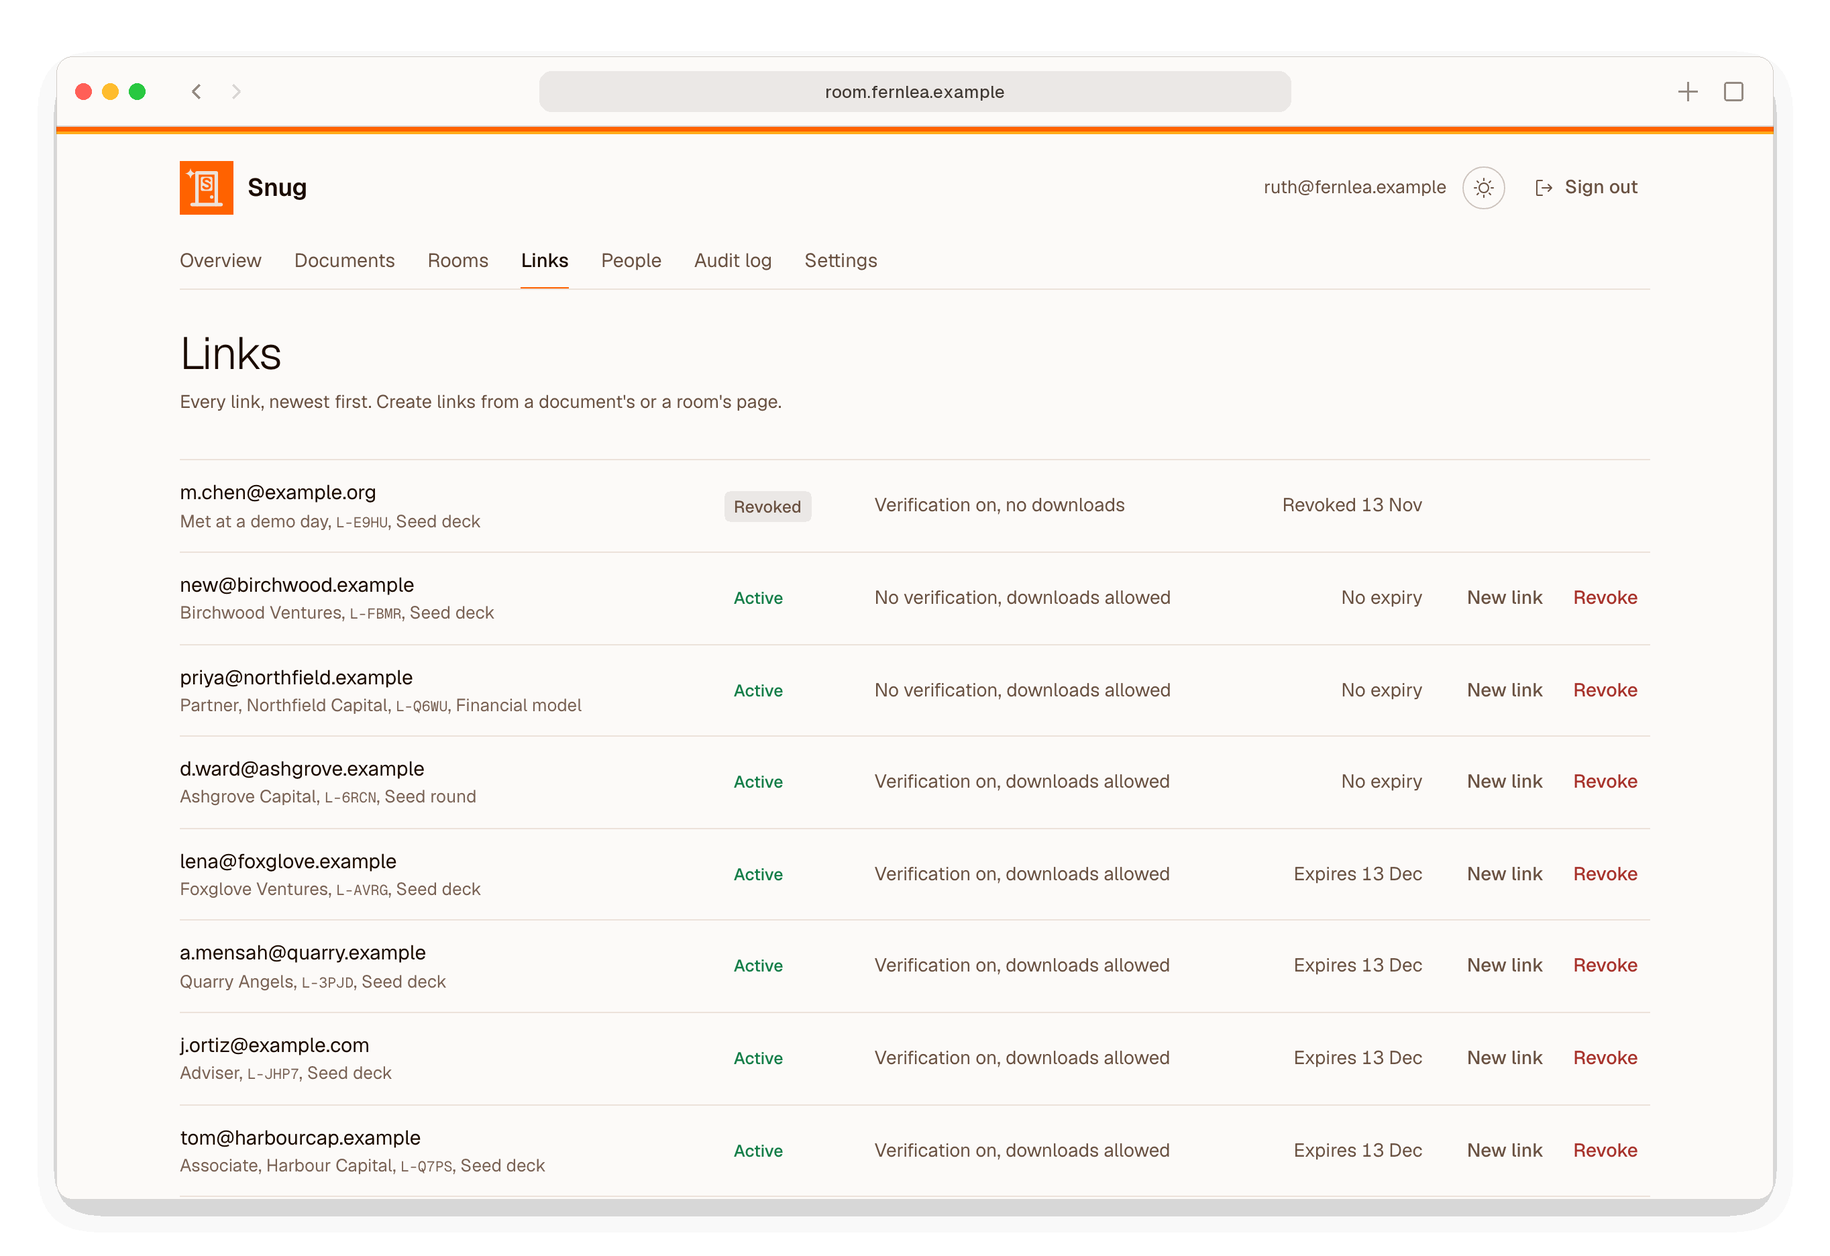
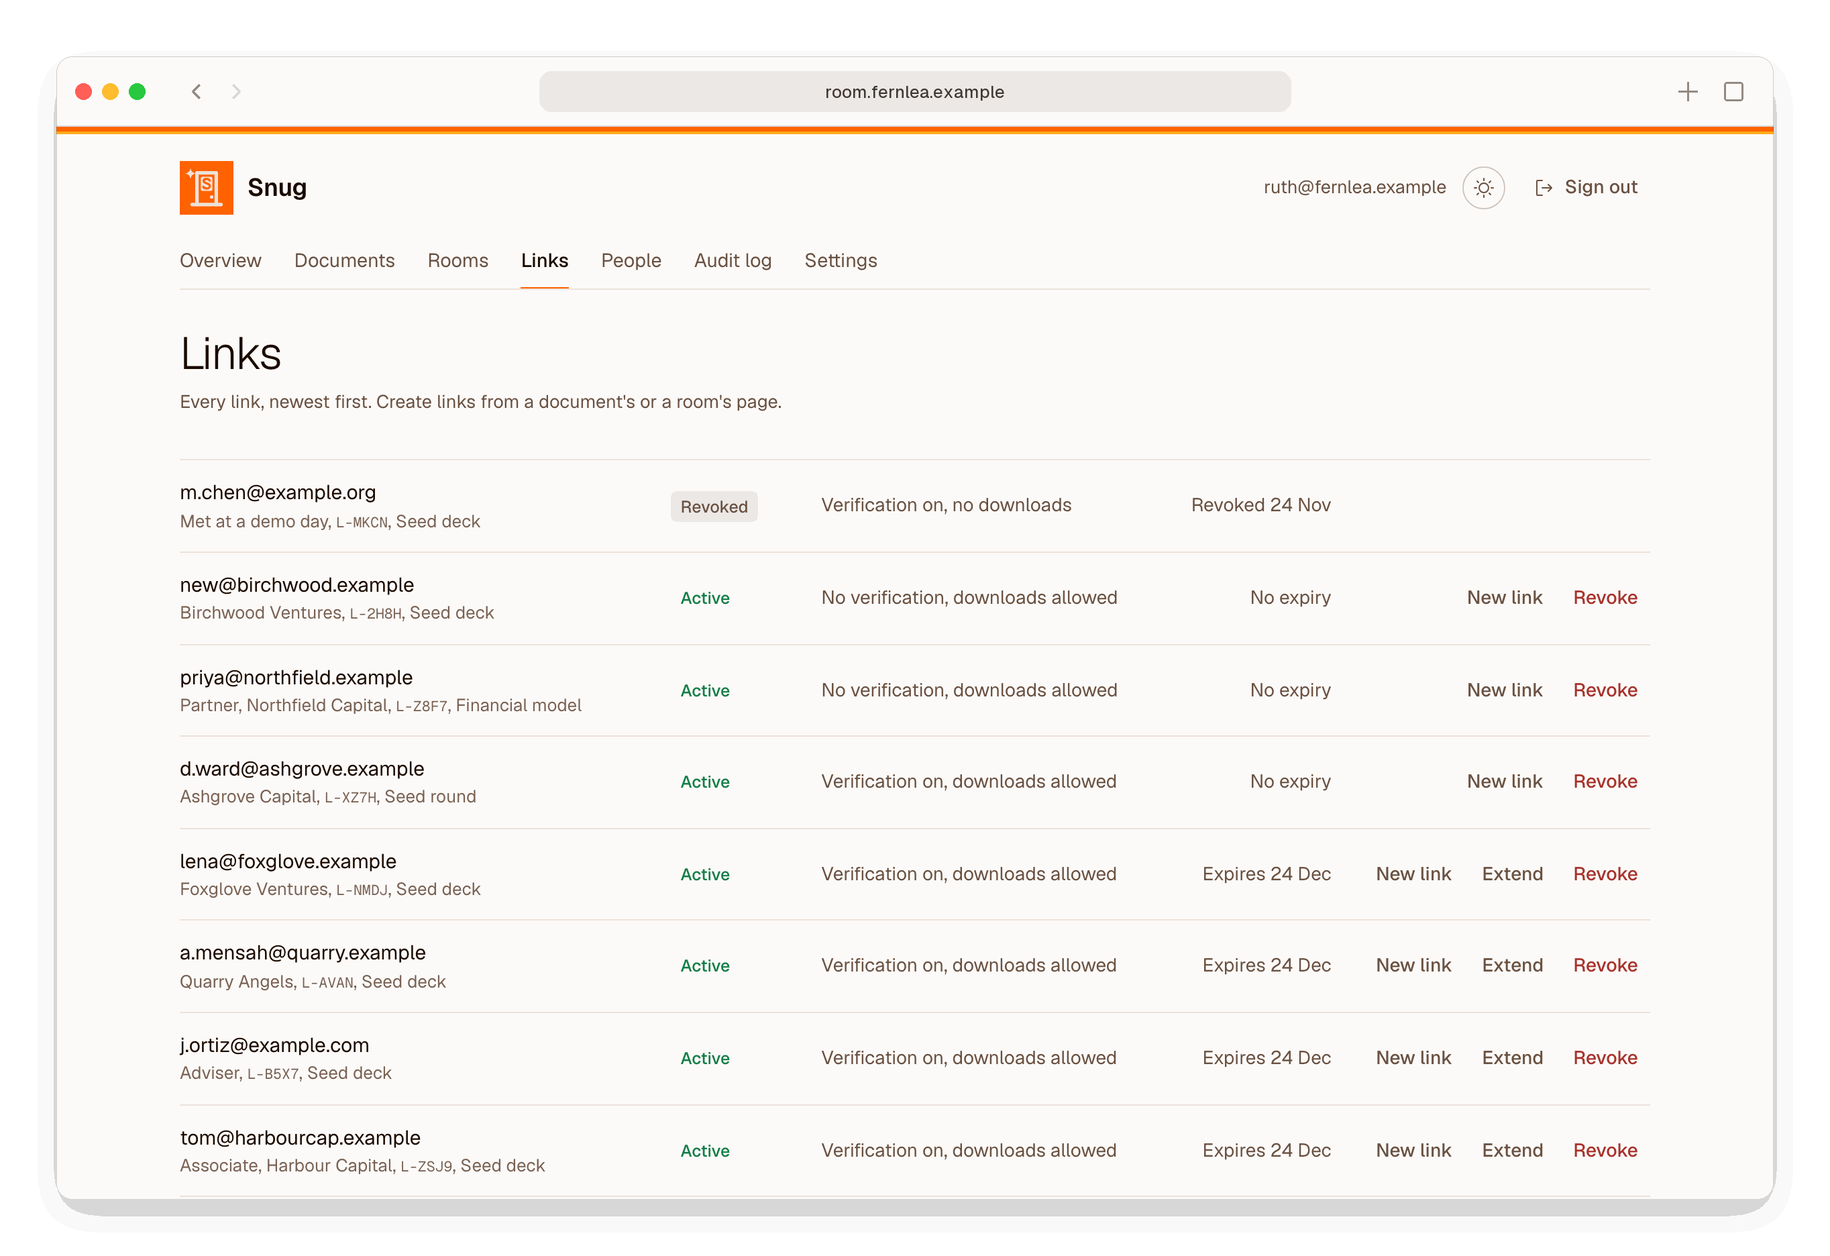
Add Extend beside Revoke on a link
A link with an expiry can now be given a later last day, or none, and
keeps its URL, so a founder no longer has to send a new link to give an
investor more time. It also brings an expired link back. A revoked link,
or one with no expiry, is not offered it. Each extension is audited as
link.extended, with the old and new last days.

diff --git a/snug/templates/links/_rows.html b/snug/templates/links/_rows.html
@@ -5,7 +5,7 @@
     {% if link.status == "active" %}<span class="status status-ok">Active</span>{% elif link.status == "expired" %}<span class="status status-warn">Expired</span>{% else %}<span class="status status-off">Revoked</span>{% endif %}
     <span class="muted">{% if link.require_verification %}Verification on{% else %}No verification{% endif %}, {% if link.allow_download %}downloads allowed{% else %}no downloads{% endif %}{% if link.uk_only or link.room.uk_only %}, UK only{% endif %}</span>
     <span class="r muted num">{% if link.status == "revoked" %}Revoked {{ link.revoked_at|date:"j M" }}{% elif link.expires_at %}{% if link.status == "expired" %}Expired{% else %}Expires{% endif %} {{ link.last_day|date:"j M" }}{% else %}No expiry{% endif %}</span>
-    <span class="r link-actions">{% if link.status != "revoked" %}<a class="btn btn-quiet" href="{% url 'links:reissue' link.ref %}">New link</a><a class="btn btn-quiet btn-danger" href="{% url 'links:revoke' link.ref %}">Revoke</a>{% endif %}</span>
+    <span class="r link-actions">{% if link.status != "revoked" %}<a class="btn btn-quiet" href="{% url 'links:reissue' link.ref %}">New link</a>{% if link.expires_at %}<a class="btn btn-quiet" href="{% url 'links:extend' link.ref %}">Extend</a>{% endif %}<a class="btn btn-quiet btn-danger" href="{% url 'links:revoke' link.ref %}">Revoke</a>{% endif %}</span>
   </div>
   {% empty %}
   <p class="empty-line">No links yet.</p>

diff --git a/snug/templates/links/extend.html b/snug/templates/links/extend.html
@@ -1,0 +1,12 @@
+{% extends "snug/admin_base.html" %}
+{% load snug %}
+{% block title %}Extend link{% endblock %}
+{% block content %}
+<div class="crumbs"><a href="{% url 'links:list' %}">Links</a> / <a href="{{ link.target_url }}">{{ link.target_title }}</a> / <span class="mono">{{ link.label }}</span></div>
+<div class="title-row"><div><h1 class="page-title">Extend the link for {{ link.email }}?</h1><div class="page-meta">{% if link.status == "expired" %}It expired on {{ last_day }}. A later date makes the same link work again.{% else %}It works until {{ last_day }}.{% endif %} Its address stays the same, so there is nothing new to send.</div></div></div>
+<form class="panel form" method="post" action="{% url 'links:extend' link.ref %}" novalidate>
+  {% csrf_token %}
+  <div class="field"><label for="expires">Works until</label><input id="expires" name="expires" type="date" min="{{ earliest }}" value="{{ value }}"{% if error %} aria-invalid="true" aria-describedby="expires-error"{% endif %} autofocus>{% if error %}<div class="error" id="expires-error" role="alert">{% icon "warning-circle" %}{{ error }}</div>{% else %}<div class="hint">The last day it works. Leave empty for no expiry.</div>{% endif %}</div>
+  <div class="form-foot left"><a class="btn" href="{{ link.target_url }}">Cancel</a><button class="btn btn-primary" type="submit">Extend link</button></div>
+</form>
+{% endblock %}

diff --git a/snug/static/snug/css/snug.css b/snug/static/snug/css/snug.css
@@ -637,5 +637,5 @@ input[type="file"]::file-selector-button {
     .link-rows { display: block; }
     .link-rows .item { grid-template-columns: 1fr auto; }
     .link-rows .item > .muted { display: none; }
-    .link-actions { grid-column: 1 / -1; justify-content: flex-start; }
+    .link-actions { grid-column: 1 / -1; justify-content: flex-start; flex-wrap: wrap; }
 }

diff --git a/tests/test_link_extend.py b/tests/test_link_extend.py
@@ -1,0 +1,138 @@
+"""Extending a link: a later expiry, or none, for the same URL (issue #151)."""
+
+from datetime import date, timedelta
+
+import pytest
+from django.test import Client
+from django.utils import timezone
+
+from snug.audit.models import AuditEvent
+from snug.documents.models import Document
+from snug.links.models import Link
+from tests.test_links import INVESTOR, admin, client, create, document, issued_url, token_of
+
+__all__ = ["admin", "client", "document"]  # fixtures, used by name
+
+pytestmark = pytest.mark.django_db
+
+
+def in_days(days: int) -> date:
+    return timezone.localdate() + timedelta(days=days)
+
+
+def link_until(client: Client, document: Document, day: date) -> tuple[Link, str]:
+    create(client, document, expires=day.isoformat())
+    return Link.objects.get(), token_of(issued_url(client))
+
+
+def extend(client: Client, link: Link, until: str) -> object:
+    return client.post(f"/admin/links/{link.ref}/extend", {"expires": until}, secure=True)
+
+
+def test_extending_asks_first(client: Client, document: Document) -> None:
+    day = in_days(5)
+    link, _ = link_until(client, document, day)
+    page = client.get(f"/admin/links/{link.ref}/extend", secure=True).content.decode()
+    assert f"Extend the link for {INVESTOR}?" in page
+    assert f"It works until {day.day} {day:%B %Y}." in page
+    assert Link.objects.get().last_day == day
+
+
+def test_extending_moves_the_expiry_and_keeps_the_url(client: Client, document: Document) -> None:
+    link, token = link_until(client, document, in_days(5))
+    later = in_days(19)
+    response = extend(client, link, later.isoformat())
+    assert response["Location"] == f"/admin/documents/{document.token}#links"  # type: ignore[index]
+    link.refresh_from_db()
+    assert link.last_day == later
+    assert Link.find(token) == link
+    event = AuditEvent.objects.get(action="link.extended")
+    assert event.details["from"] == in_days(5).isoformat()
+    assert event.details["to"] == later.isoformat()
+    page = client.get(f"/admin/documents/{document.token}", secure=True).content.decode()
+    assert f"it now works until {later.day} {later:%B %Y}" in page
+
+
+def test_extending_with_no_date_removes_the_expiry(client: Client, document: Document) -> None:
+    link, _ = link_until(client, document, in_days(5))
+    extend(client, link, "")
+    link.refresh_from_db()
+    assert link.expires_at is None
+    assert AuditEvent.objects.get(action="link.extended").details["to"] is None
+    page = client.get(f"/admin/documents/{document.token}", secure=True).content.decode()
+    assert "it now has no expiry" in page
+
+
+@pytest.mark.parametrize(
+    ("days", "error"),
+    [
+        (3, "Choose a day after 8 "),  # earlier than the link's last day
+        (8, "Choose a day after 8 "),  # the same day
+        (0, "The expiry date must be in the future."),
+        (-2, "The expiry date must be in the future."),
+    ],
+)
+def test_an_earlier_day_is_refused(
+    client: Client, document: Document, days: int, error: str
+) -> None:
+    link, _ = link_until(client, document, in_days(8))
+    response = extend(client, link, in_days(days).isoformat())
+    assert response.status_code == 400  # type: ignore[attr-defined]
+    page = response.content.decode()  # type: ignore[attr-defined]
+    assert error.replace("8 ", f"{in_days(8).day} ") in page
+    assert 'aria-invalid="true"' in page
+    assert Link.objects.get().last_day == in_days(8)
+    assert not AuditEvent.objects.filter(action="link.extended").exists()
+
+
+def test_nonsense_is_refused(client: Client, document: Document) -> None:
+    link, _ = link_until(client, document, in_days(8))
+    response = extend(client, link, "next Tuesday")
+    assert response.status_code == 400  # type: ignore[attr-defined]
+    assert "Enter the expiry as a date." in response.content.decode()  # type: ignore[attr-defined]
+
+
+def test_an_expired_link_works_again(client: Client, document: Document) -> None:
+    link, token = link_until(client, document, in_days(4))
+    Link.objects.filter(pk=link.pk).update(expires_at=timezone.now() - timedelta(days=2))
+    link.refresh_from_db()
+    assert link.status == "expired"
+    extend(client, link, in_days(2).isoformat())
+    link.refresh_from_db()
+    assert link.is_active() and link.last_day == in_days(2)
+    assert Link.find(token) == link
+
+
+def test_a_revoked_link_cannot_be_extended(client: Client, document: Document) -> None:
+    link, _ = link_until(client, document, in_days(6))
+    client.post(f"/admin/links/{link.ref}/revoke", secure=True)
+    response = extend(client, link, in_days(30).isoformat())
+    assert response["Location"] == f"/admin/documents/{document.token}"  # type: ignore[index]
+    link.refresh_from_db()
+    assert link.is_revoked() and link.last_day == in_days(6)
+    assert not AuditEvent.objects.filter(action="link.extended").exists()
+
+
+def test_a_link_with_no_expiry_is_not_shortened(client: Client, document: Document) -> None:
+    create(client, document)
+    link = Link.objects.get()
+    assert client.get(f"/admin/links/{link.ref}/extend", secure=True).status_code == 302
+    response = extend(client, link, in_days(9).isoformat())
+    assert response["Location"] == f"/admin/documents/{document.token}"  # type: ignore[index]
+    assert Link.objects.get().expires_at is None
+
+
+def test_extend_is_offered_beside_revoke(client: Client, document: Document) -> None:
+    link, _ = link_until(client, document, in_days(6))
+    create(client, document, email="tomas@northfield.example")  # no expiry
+    forever = Link.objects.get(email="tomas@northfield.example")
+    listing = client.get("/admin/links/", secure=True).content.decode()
+    assert f'href="/admin/links/{link.ref}/extend"' in listing
+    assert f'href="/admin/links/{forever.ref}/extend"' not in listing
+    client.post(f"/admin/links/{link.ref}/revoke", secure=True)
+    listing = client.get("/admin/links/", secure=True).content.decode()
+    assert f'href="/admin/links/{link.ref}/extend"' not in listing
+
+
+def test_unknown_references_are_not_found(client: Client) -> None:
+    assert client.get("/admin/links/ZZZZ/extend", secure=True).status_code == 404

diff --git a/tests/e2e/test_admin_pages.py b/tests/e2e/test_admin_pages.py
@@ -154,6 +154,36 @@ def test_the_link_form_shows_the_box_only_when_asked(live_server: Any, page: Pag
     expect(box).to_be_hidden()
 
 
+def test_a_link_is_extended_from_the_links_page(live_server: Any, page: Page) -> None:
+    from django.utils import timezone
+
+    from snug.documents.models import Document
+    from snug.links import service
+    from snug.links.models import Link
+
+    deck = Document.objects.create(title="Seed deck")
+    issued = service.create(
+        document=deck,
+        email="priya@northfield.example",
+        note="",
+        expires_at=datetime.now(UTC) + timedelta(days=3),
+        require_verification=True,
+        allow_download=True,
+        created_by=None,
+    )
+    later = timezone.localdate() + timedelta(days=24)
+    sign_in(live_server, page)
+    page.goto(f"{live_server.url}/admin/links/")
+    page.get_by_role("link", name="Extend").click()
+    expect(page.get_by_role("heading", name="Extend the link for priya@northfield.example?"))
+    page.get_by_label("Works until").fill(later.isoformat())
+    page.get_by_role("button", name="Extend link").click()
+    expect(page).to_have_url(re.compile(rf"/admin/documents/{deck.token}#links$"))
+    expect(page.get_by_text(f"it now works until {later.day} {later:%B %Y}")).to_be_visible()
+    assert Link.objects.get(pk=issued.link.pk).last_day == later
+    assert Link.find(issued.token) is not None
+
+
 # ---------------------------------------------------------------- upload progress
 
 
@@ -248,6 +278,8 @@ def test_admin_pages_fit_a_phone(live_server: Any, page: Page) -> None:
     RoomDocument.objects.create(room=room, document=deck)
     link = make_link("priya.someone-long@northfield-capital.example", room=room)
     visit(link, deck, ago=timedelta(hours=1), seconds=95)
+    # An expiry, so the row has all three buttons: New link, Extend and Revoke.
+    type(link).objects.filter(pk=link.pk).update(expires_at=link.created_at + timedelta(days=9))
     sign_in(live_server, page)
     for path in ("", "documents/", "rooms/", "links/", "people/", "audit/", "settings/"):
         page.goto(f"{live_server.url}/admin/{path}")
@@ -469,7 +501,12 @@ def test_every_row_list_keeps_its_columns(
         "allow_download": True,
         "created_by": None,
     }
-    service.create(document=deck, email="sam@eastgate.example", **fields)
+    # Three buttons, with Extend, beside a row with none.
+    service.create(
+        document=deck,
+        email="sam@eastgate.example",
+        **{**fields, "expires_at": datetime.now(UTC) + timedelta(days=9)},
+    )
     gone = service.create(document=deck, email="flow-check@northfield.example", **fields)
     service.revoke(gone.link, by=None)
     room = Room.objects.create(name="Series A data room")

diff --git a/snug/links/views.py b/snug/links/views.py
@@ -1,4 +1,4 @@
-"""The admin's link pages: create, show once, list, revoke and reissue."""
+"""The admin's link pages: create, show once, list, revoke, reissue and extend."""
 
 import base64
 import binascii
@@ -320,3 +320,53 @@ def link_reissue(request: HttpRequest, ref: str) -> HttpResponse:
     _audit(request, "link.reissued", link)
     wanted = request.POST.get("action") == "email" and mail.enabled()
     return _show_once(request, issued, emailed=_deliver(request, issued, wanted))
+
+
+def _long_date(day: date) -> str:
+    return f"{day.day} {day:%B %Y}"
+
+
+@never_cache
+@login_required
+@require_http_methods(["GET", "POST"])
+def link_extend(request: HttpRequest, ref: str) -> HttpResponse:
+    link = get_object_or_404(Link.objects.select_related("document", "room"), ref=ref)
+    last = link.last_day
+    # A revoked link stays revoked, and one with no expiry has nothing to extend.
+    if link.is_revoked() or last is None or link.expires_at is None:
+        return redirect(link.target_url())
+    current = link.expires_at
+    # The first day the form accepts: after today, and after the link's last day.
+    earliest = max(timezone.localdate(), last) + timedelta(days=1)
+    context: dict[str, Any] = {
+        "tab": "links",
+        "link": link,
+        "last_day": _long_date(last),
+        "earliest": earliest.isoformat(),
+        "value": (earliest + timedelta(days=13)).isoformat(),
+    }
+    if request.method == "GET":
+        return render(request, "links/extend.html", context)
+
+    raw = request.POST.get("expires", "").strip()
+    expires_at, error = _parse_expiry(raw)
+    if not error and expires_at is not None and expires_at <= current:
+        error = f"Choose a day after {_long_date(last)}, its last day now."
+    if error:
+        context.update(value=raw[:40], error=error)
+        return render(request, "links/extend.html", context, status=400)
+
+    service.extend(link, expires_at)
+    until = link.last_day
+    _audit(
+        request,
+        "link.extended",
+        link,
+        **{"from": last.isoformat(), "to": until.isoformat() if until else None},
+    )
+    after = f"it now works until {_long_date(until)}" if until else "it now has no expiry"
+    text = (
+        f"Extended {link.label} for {link.email}, and {after}. "
+        "Its address is unchanged, so there is nothing new to send."
+    )
+    return notices.saved(request, link.target_url(), "links", text)

diff --git a/snug/links/service.py b/snug/links/service.py
@@ -1,4 +1,4 @@
-"""Creating, reissuing and revoking links, and emailing them."""
+"""Creating, reissuing, extending and revoking links, and emailing them."""
 
 from dataclasses import dataclass
 from datetime import datetime
@@ -91,6 +91,12 @@ def reissue(link: Link) -> Issued:
     link.reissued_at = timezone.now()
     link.save(update_fields=["token_hash", "reissued_at"])
     return Issued(link=link, token=token)
+
+
+def extend(link: Link, expires_at: datetime | None) -> None:
+    """A later expiry, or none, for the same link. Its URL keeps working."""
+    link.expires_at = expires_at
+    link.save(update_fields=["expires_at"])
 
 
 def revoke(link: Link, by: Admin | None) -> None:

diff --git a/snug/links/urls.py b/snug/links/urls.py
@@ -11,4 +11,5 @@ urlpatterns = [
     path("issued", views.link_issued, name="issued"),
     path("<str:ref>/revoke", views.link_revoke, name="revoke"),
     path("<str:ref>/reissue", views.link_reissue, name="reissue"),
+    path("<str:ref>/extend", views.link_extend, name="extend"),
 ]

diff --git a/docs/design.md b/docs/design.md
@@ -188,7 +188,7 @@ Each page has its own URL, with no hash routing, because every action is a CSRF-
   - Below the chart, in two columns: the first page as the server renders it (a video's player, or an Office file's *Preview* panel); and *Upload a new version*, *Versions* with each upload's file name, and *Rename*.
   - **Links** as plain rows, with *New link* and *Revoke* where they apply.
 - **Rooms.** A list, and for each room its documents, under folder headings with a folder icon, its links, and five tools in a two-column grid: add a document already uploaded, add a folder, the NDA switch, the UK-only switch, and rename.
-- **Links.** Every link, newest first: recipient, note, reference, target, status, its settings (verification, downloads, UK only), and expiry. Revoking and sending a new link each go through a confirmation page that shows the recipient.
+- **Links.** Every link, newest first: recipient, note, reference, target, status, its settings (verification, downloads, UK only), and expiry. Revoking and sending a new link each go through a confirmation page that shows the recipient. *Extend*, for a link with an expiry, moves it to a later day or removes it, keeping the same URL, and brings an expired link back. It is audited as `link.extended`.
 - **People.** One row per viewer email address, with everything that person has opened across the instance, using the same page strips (a video's cells are its 10-second parts; an Office file without a preview has one cell, shaded by the time its card was open). Each document row also shows how many times that person downloaded it, and the person's summary line gives their total when it is above zero. The counts come from the audit log's download events, which outlast reading data, so only documents the person is still shown reading are counted.
 - **Audit log.** A dense, filterable table and a CSV export.
 - **Settings.**

diff --git a/docs/using-snug.md b/docs/using-snug.md
@@ -80,11 +80,11 @@ Each link is for one person. On a document's page, choose *New link*, and fill i
 
 *Create and email* sends it; *Create and copy* shows the link once, to send yourself. If it is lost, send a new link.
 
-*Links* lists every link, newest first. *Revoke* stops a link at once, even for someone reading it at the time. *New link* replaces it with a fresh one for the same person, with the same settings and history.
+*Links* lists every link, newest first. *Revoke* stops a link at once, even for someone reading it at the time. *New link* replaces it with a fresh one for the same person, with the same settings and history. *Extend* gives a link with an expiry a later last day, or none, and the same link keeps working. It also makes an expired link work again.
 
 <picture>
   <source media="(prefers-color-scheme: dark)" srcset="images/screenshots/links-dark.png">
-  <img alt="The Links page: each link with its recipient, note, and document, whether it is active or revoked, its settings and expiry, and buttons for a new link or to revoke it." src="images/screenshots/links-light.png">
+  <img alt="The Links page: each link with its recipient, note, and document, whether it is active or revoked, its settings and expiry, and buttons for a new link, to extend one with an expiry, or to revoke it." src="images/screenshots/links-light.png">
 </picture>
 
 ## Rooms

diff --git a/CHANGELOG.md b/CHANGELOG.md
@@ -4,6 +4,10 @@ All notable changes to Snug are recorded here. The format follows [Keep a Change
 
 ## [Unreleased]
 
+### Added
+
+- *Extend*, beside *Revoke* on a link, gives it a later last day, or no expiry, and keeps the same link working, so you no longer have to send a new link to give someone more time. It also makes an expired link work again. Each extension is in the audit log.
+
 ## [1.2.0] - 2026-11-23
 
 The security release: every finding of a security audit of 1.1.3 is fixed, `snug update` checks what it downloads, the document worker may make only the system calls it needs, and LibreOffice can no longer see the converter's shared folders.
